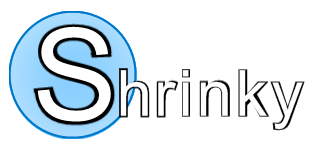
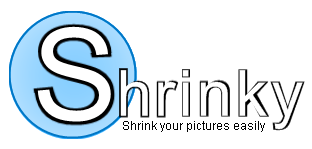
- Finished the GUI of the installer, including changing settings

Changed region(s): [[0.375, 0.8054, 0.8654, 0.8859]]

diff --git a/Installer/Source/ShrinkyInstaller.cpp b/Installer/Source/ShrinkyInstaller.cpp
@@ -7,10 +7,11 @@
 
 ShrinkyInstaller::ShrinkyInstaller():
    m_lLogo(this),
+   m_lSubText(this),
    m_lSettings(this),
-   m_btnInstall(this)
+   m_btnInstall(this),
+   m_settings(this)
 {
-   setWindowTitle(tr("Install Shrinky"));
    setWindowIcon(QIcon(":/ShrinkyLogo-256.png"));
    setObjectName("ShrinkyInstaller");
    setStyleSheet("QWidget#ShrinkyInstaller{ background-image: url(:/Background.png); }");
@@ -20,10 +21,26 @@ ShrinkyInstaller::ShrinkyInstaller():
    m_lLogo.setPixmap(pix);
 
    QFont font = m_btnInstall.font();
-//   font.setBold(true);
    font.setPointSizeF(font.pointSizeF() * 1.5);
    font.setStretch(130);
    m_btnInstall.setFont(font);
+
+   m_lSettings.move(7, height() - 25);
+   m_lSettings.setTextInteractionFlags(Qt::TextBrowserInteraction);
+   m_settings.setVisible(false);
+
+   connect(
+      &m_lSettings,
+      SIGNAL(linkActivated(QString)),
+      this,
+      SLOT(showSettings()));
+
+   retranslateUi();
+}
+
+void ShrinkyInstaller::retranslateUi()
+{
+   setWindowTitle(tr("Install Shrinky"));
    m_btnInstall.setText(tr("Install now!"));
    m_btnInstall.adjustSize();
    m_btnInstall.resize(
@@ -32,9 +49,29 @@ ShrinkyInstaller::ShrinkyInstaller():
    m_btnInstall.move(
       (width() - m_btnInstall.width()) / 2,
       300);
+   QString templ = "<a href=\"settings\">%1</a>";
+   if (m_settings.isVisible())
+      m_lSettings.setText(templ.arg(tr("Hide settings")));
+   else
+      m_lSettings.setText(templ.arg(tr("Show settings")));
+   m_settings.retranslateUi();
+}
 
-   m_lSettings.setText("<a href=\"settings\">" + tr("Change settings") + "</a>");
-   m_lSettings.move(7, height() - 25);
+void ShrinkyInstaller::showSettings()
+{
+   if (!m_settings.isVisible())
+   {
+      int w = m_lSettings.x() + m_lSettings.width() + 7;
+      int t = m_btnInstall.y() + m_btnInstall.height() + 2;
+      int h = (height() - t - 2);
+      m_settings.setGeometry(
+         w,
+         t,
+         width() - w * 2,
+         h);
+   }
+   m_settings.setVisible(!m_settings.isVisible());
+   retranslateUi();
 }
 
 int main(int argc, char *argv[])

diff --git a/Installer/Source/InstallSettings.cpp b/Installer/Source/InstallSettings.cpp
@@ -1,0 +1,43 @@
+#include "InstallSettings.h"
+#include "InstallUtils.h"
+
+#include <QFileDialog>
+
+InstallSettings::InstallSettings(QWidget *parent):
+   QWidget(parent),
+   m_glSettings(this)
+{
+   m_glSettings.addWidget(&m_lDestDir, 0, 0);
+   m_glSettings.addWidget(&m_edDestDir, 0, 1);
+   m_glSettings.addWidget(&m_btnDestDir, 0, 2);
+   m_glSettings.addWidget(&m_cbShellExtension, 1, 1);
+   m_lDestDir.setBuddy(&m_edDestDir);
+
+   m_edDestDir.setText(defaultInstallPath());
+   m_cbShellExtension.setChecked(true);
+
+   retranslateUi();
+
+   connect(
+      &m_btnDestDir,
+      SIGNAL(clicked()),
+      this,
+      SLOT(browseForDestDir()));
+}
+
+void InstallSettings::retranslateUi()
+{
+   m_lDestDir.setText(tr("&Install to:"));
+   m_btnDestDir.setText("...");
+   m_cbShellExtension.setText(tr("Install extension to the Windows Explorer"));
+}
+
+void InstallSettings::browseForDestDir()
+{
+   QString dest = QFileDialog::getExistingDirectory(
+      this,
+      tr("Pick a directory to install to"),
+      m_edDestDir.text());
+   if (!dest.isEmpty())
+      m_edDestDir.setText(QDir::toNativeSeparators(dest));
+}

diff --git a/Installer/Source/InstallUtils.cpp b/Installer/Source/InstallUtils.cpp
@@ -1,0 +1,49 @@
+#include "InstallUtils.h"
+
+#include <QDir>
+
+namespace
+{
+   QString appendShrinkyPath(const QString &aBase)
+   {
+      QDir dir(aBase);
+      dir.setPath(dir.absolutePath() + dir.separator() + "Shrinky");
+      return QDir::toNativeSeparators(QDir::cleanPath(dir.absolutePath()));
+   }
+}
+
+#ifdef Q_OS_WIN32
+
+#define WIN32_LEAN_AND_MEAN
+
+#include <Windows.h>
+#include <Winbase.h>
+#include <shlobj.h>
+
+typedef HRESULT (*FunSHGetFolderPath)(
+    HWND,
+    int,
+    HANDLE,
+    DWORD,
+    LPTSTR);
+
+QString defaultInstallPath()
+{
+   TCHAR result[MAX_PATH];
+   result[0] = TEXT('\0');
+   SHGetFolderPath(
+      0,
+      CSIDL_APPDATA,
+      0,
+      0,
+      result);
+   return appendShrinkyPath(
+      QString::fromStdWString(
+         std::wstring(result)));
+}
+#else
+QString defaultInstallPath()
+{
+   return "/";
+}
+#endif

diff --git a/Installer/Source/InstallSettings.h b/Installer/Source/InstallSettings.h
@@ -1,0 +1,34 @@
+#ifndef INSTALLSETTINGS_H
+#define INSTALLSETTINGS_H
+
+#include <QWidget>
+#include <QGridLayout>
+#include <QLabel>
+#include <QLineEdit>
+#include <QToolButton>
+#include <QCheckBox>
+#include <QGroupBox>
+#include <QBoxLayout>
+
+class InstallSettings : public QWidget
+{
+   Q_OBJECT
+
+public:
+    InstallSettings(QWidget *parent = 0);
+
+    virtual void retranslateUi();
+
+private:
+    QGridLayout m_glSettings;
+    QLabel m_lDestDir;
+    QLineEdit m_edDestDir;
+    QToolButton m_btnDestDir;
+
+    QCheckBox m_cbShellExtension;
+
+private slots:
+    void browseForDestDir();
+};
+
+#endif // INSTALLSETTINGS_H

diff --git a/Installer/Source/ShrinkyInstaller.h b/Installer/Source/ShrinkyInstaller.h
@@ -1,18 +1,29 @@
 #ifndef SHRINKYINSTALLER_H
 #define SHRINKYINSTALLER_H
 
+#include "InstallSettings.h"
+
 #include <QFrame>
 #include <QPushButton>
 #include <QLabel>
 
 class ShrinkyInstaller: public QFrame
 {
+   Q_OBJECT
+
 public:
     ShrinkyInstaller();
 
 private:
-    QLabel m_lLogo, m_lSettings;
+    QLabel m_lLogo, m_lSubText, m_lSettings;
     QPushButton m_btnInstall;
+
+    InstallSettings m_settings;
+
+    virtual void retranslateUi();
+
+private slots:
+    void showSettings();
 };
 
 #endif

diff --git a/Installer/Source/InstallUtils.h b/Installer/Source/InstallUtils.h
@@ -1,0 +1,8 @@
+#ifndef INSTALLUTILS_H
+#define INSTALLUTILS_H
+
+#include <QString>
+
+QString defaultInstallPath();
+
+#endif // INSTALLUTILS_H
